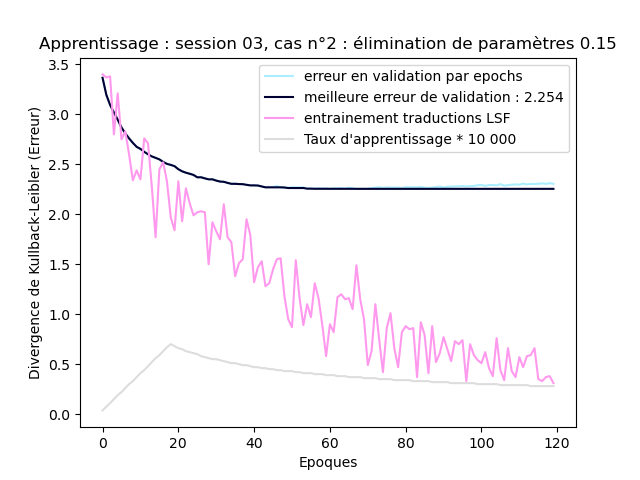
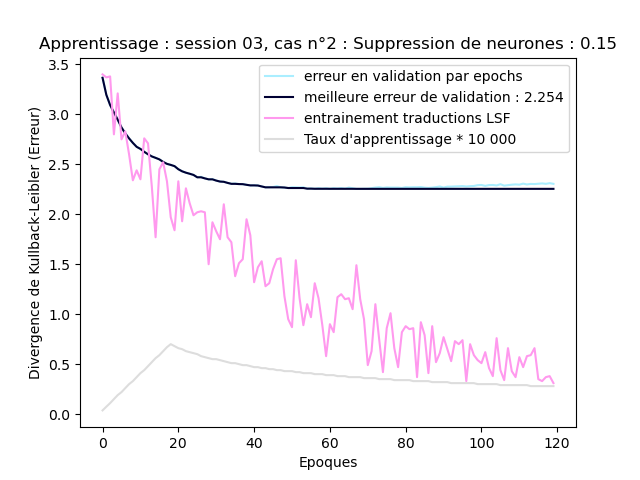
experiment symbolicTransformer : session 3 - cas 2

Changed region(s): [[0.5312, 0.0625, 0.9688, 0.125]]

diff --git a/common/plot_exp_learning.py b/common/plot_exp_learning.py
@@ -17,7 +17,7 @@ NUMBER_OF_TRAINING_RESULTS = 22
 case = Case.SECOND
 session = "session 03"
 add = "S3_"
-experimentation_detail = "élimination de paramètres 0.15"
+experimentation_detail = "Suppression de neurones : 0.15"
 
 if __name__ == '__main__':
 
